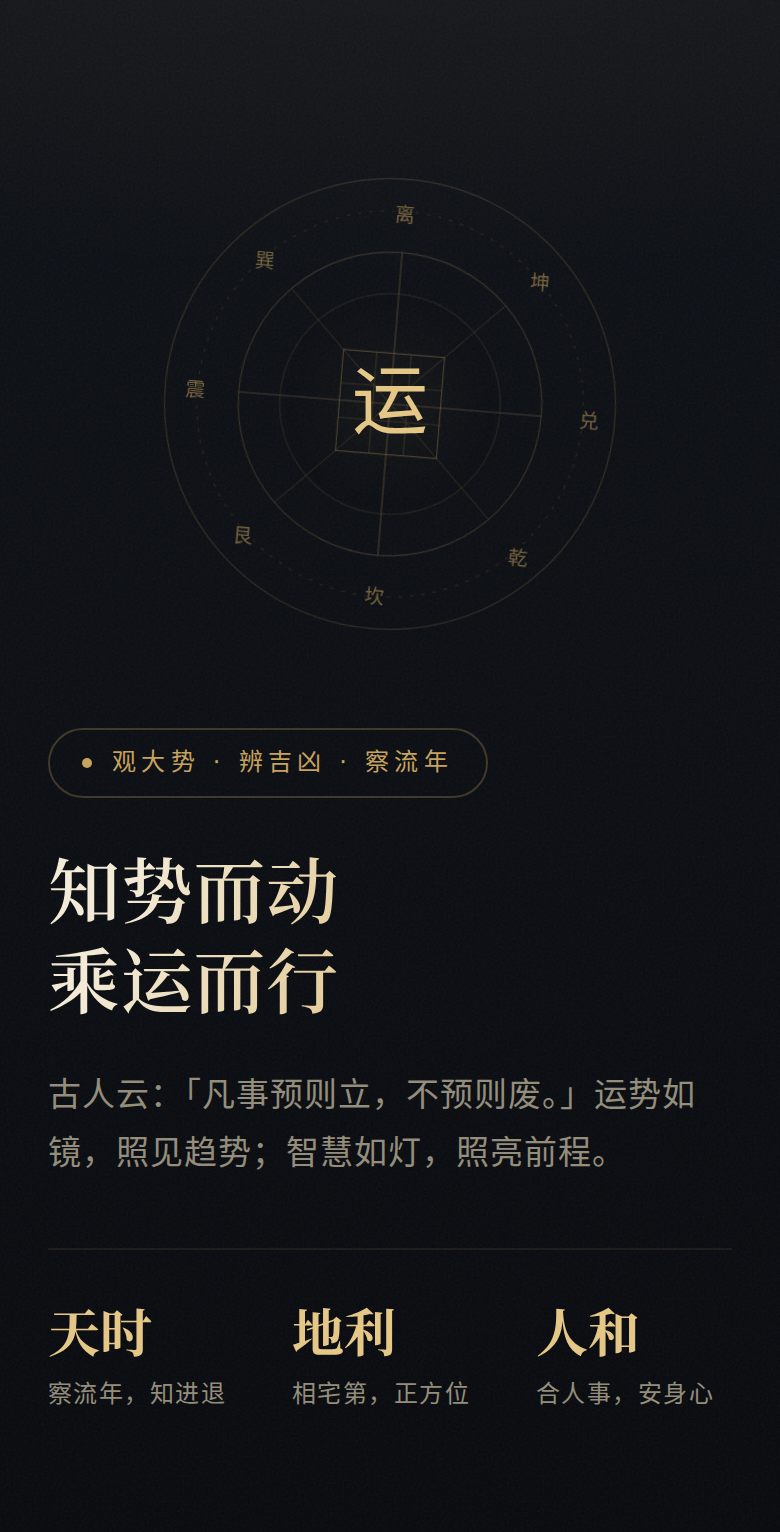
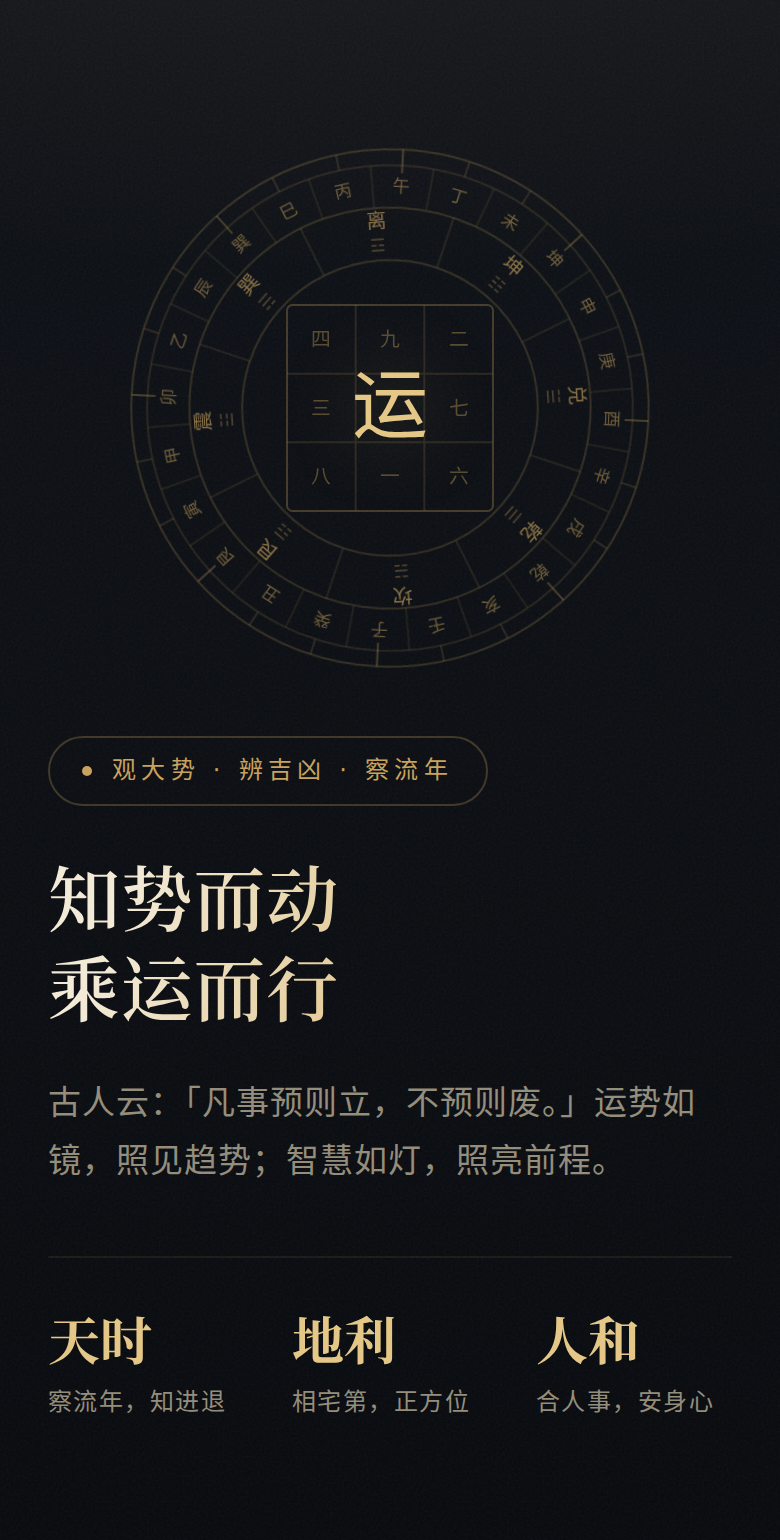
style(index): hero 撑满首屏，下一节不再露头，且不加大与下一节的间距
原因：hero 高度固定 600px（padding 112+88 + 内容 400），与视口无关，
所以视口越高、服务矩阵露出越多（实测 830 高时露 161px，960 高时露 291px）。

做法：
- hero 改为 min-height:calc(100svh - 69px)（69px 为导航实测高度），
  并 display:flex + flex-direction:column + justify-content:flex-end，
  让富余高度全部落在内容「上方」。内容与下一节之间仍是 88px 的
  padding-bottom，与改动前完全一致，没有变大。
- 同时把内容本身做高，减少上方留白：h1 上限 58px → 64px，
  罗盘 400px → 440px（.hm-figure min-height 380 → 440）。
- 加 920px 上限，避免超高视口下内容被推得过低。
- 移动端（≤900px）不撑满：竖屏堆叠后内容本就够高，min-height 归零。

实测（露出 / 内容到下一节 / 导航到内容）：
  1280×700   0 / 88 / 103
  1440×790   0 / 88 / 193
  1512×830   0 / 88 / 233
  1512×900   0 / 88 / 303
  1920×960   0 / 88 / 363
「内容到下一节」在所有尺寸下都是 88px，与改动前相同。

已知边界：视口高于约 1030px 时（受 920px 上限所限）服务矩阵的眉标会
露出一点；视口低于约 685px 时 hero 本身放不下，需要滚动。

验证：8 个页面 × 1440/768/390 三档断点无 JS 报错、无横向溢出；
tests/test-rotation.js 44 项全通过。

Claude-Session: https://claude.ai/code/session_01DZ6RTC3hdp1G7u38rVpyYV

diff --git a/assets/css/site.css b/assets/css/site.css
@@ -284,11 +284,13 @@ a:focus-visible,button:focus-visible,input:focus-visible,select:focus-visible,te
 .topbar .wrap{position:relative}
 
 /* ---------- 首页 Hero ---------- */
-.hm-hero{position:relative;padding:112px 0 88px;overflow:hidden}
+.hm-hero{position:relative;padding:88px 0;overflow:hidden;
+  min-height:calc(100vh - 69px);min-height:min(calc(100svh - 69px),920px);
+  display:flex;flex-direction:column;justify-content:flex-end}
 .hm-hero-grid{display:grid;grid-template-columns:1.08fr .92fr;gap:48px;align-items:center}
 .hm-kicker{display:inline-flex;align-items:center;gap:10px;font-size:12px;letter-spacing:.22em;color:var(--gold);border:1px solid rgba(201,163,92,.28);border-radius:999px;padding:6px 16px;margin-bottom:24px}
 .hm-kicker i{width:5px;height:5px;border-radius:50%;background:var(--gold);font-style:normal;flex:none}
-.hm-hero h1{font-size:clamp(36px,4.6vw,58px);line-height:1.24;letter-spacing:.01em;margin-bottom:22px;
+.hm-hero h1{font-size:clamp(36px,5vw,64px);line-height:1.24;letter-spacing:.01em;margin-bottom:22px;
   background:linear-gradient(112deg,#f4ecd8 12%,#e2c58a 56%,#a8823f 96%);-webkit-background-clip:text;background-clip:text;color:transparent}
 .hm-hero .lead{color:var(--sub);font-size:16.5px;max-width:540px;margin-bottom:32px}
 .hm-cta{display:flex;gap:14px;flex-wrap:wrap;margin-bottom:30px}
@@ -298,8 +300,8 @@ a:focus-visible,button:focus-visible,input:focus-visible,select:focus-visible,te
 .hm-trust span{font-size:12px;color:var(--sub);letter-spacing:.06em}
 
 /* 罗盘九宫图形 */
-.hm-figure{position:relative;display:flex;align-items:center;justify-content:center;min-height:380px}
-.hm-compass{width:min(100%,400px);height:auto}
+.hm-figure{position:relative;display:flex;align-items:center;justify-content:center;min-height:440px}
+.hm-compass{width:min(100%,440px);height:auto}
 .hm-compass path,.hm-compass circle,.hm-compass rect{stroke-width:1;vector-effect:non-scaling-stroke}
 /* 外圈二十四山顺时针、中圈八卦逆时针，内圈洛书九宫静止 */
 .cp-ring-a{animation:hm-spin 150s linear infinite;transform-origin:200px 200px}
@@ -308,7 +310,7 @@ a:focus-visible,button:focus-visible,input:focus-visible,select:focus-visible,te
 @keyframes hm-spin-r{to{transform:rotate(-360deg)}}
 .hm-figure-core{position:absolute;inset:0;display:flex;align-items:center;justify-content:center;pointer-events:none}
 .hm-figure-core span{font-family:var(--kai);font-size:56px;color:var(--gold2);text-shadow:0 0 40px rgba(201,163,92,.35)}
-@media(max-width:900px){.hm-hero{padding:72px 0 56px}.hm-hero-grid{grid-template-columns:1fr;gap:32px}.hm-figure{min-height:260px;order:-1}.hm-compass{width:264px}.hm-figure-core span{font-size:38px}}
+@media(max-width:900px){.hm-hero{padding:72px 0 56px;min-height:0;display:block}.hm-hero-grid{grid-template-columns:1fr;gap:32px}.hm-figure{min-height:260px;order:-1}.hm-compass{width:264px}.hm-figure-core span{font-size:38px}}
 
 /* ---------- 通用区块头 ---------- */
 .hm-head{display:flex;justify-content:space-between;align-items:flex-end;gap:24px;margin-bottom:36px;flex-wrap:wrap}
